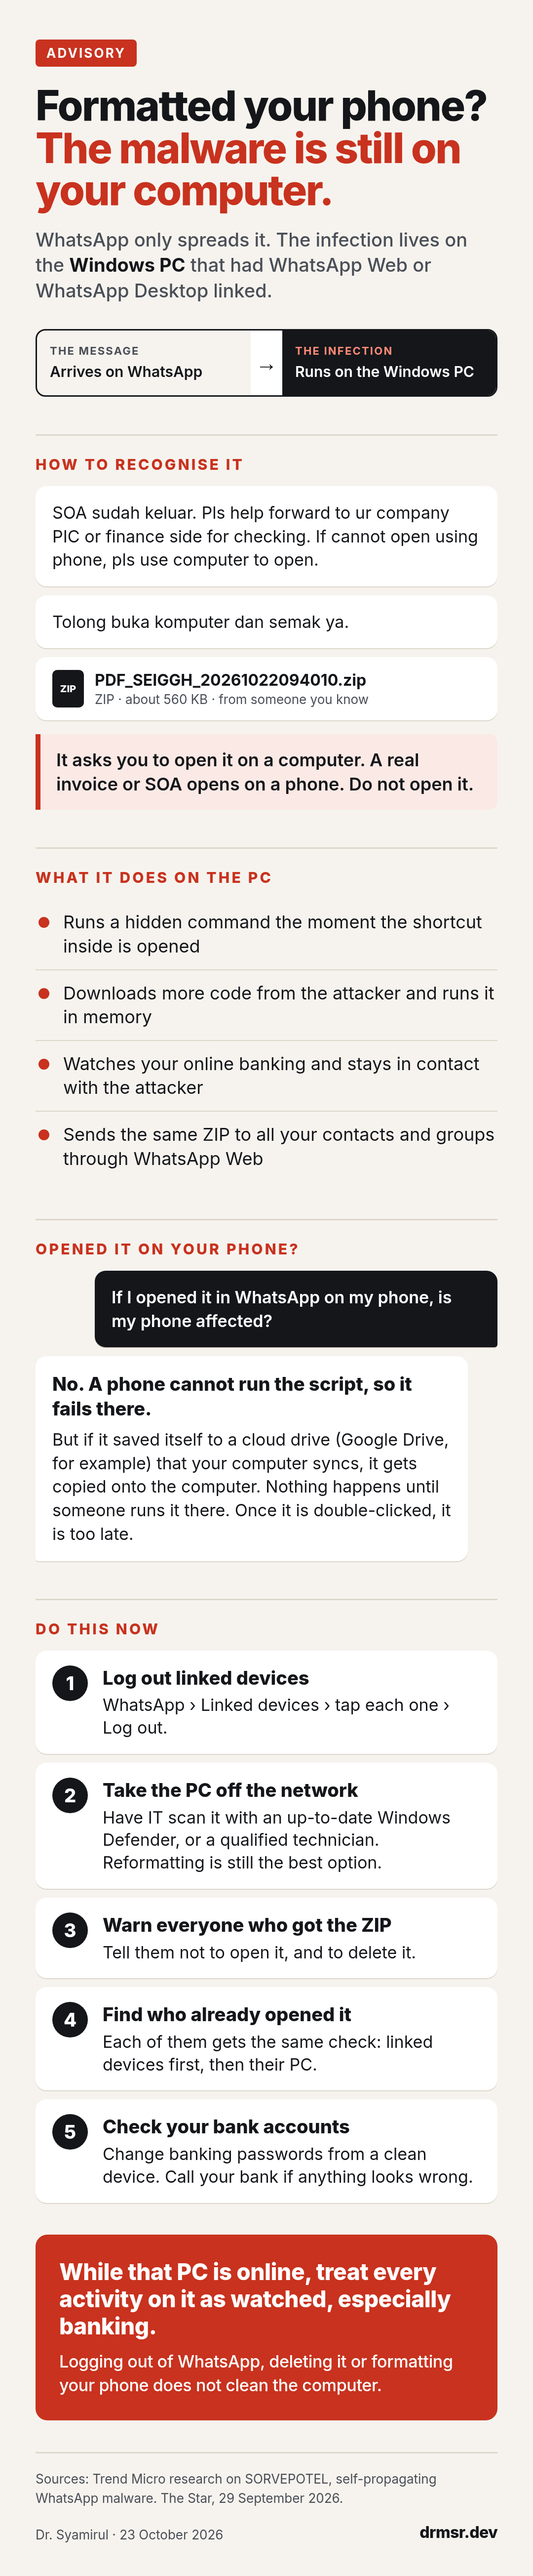
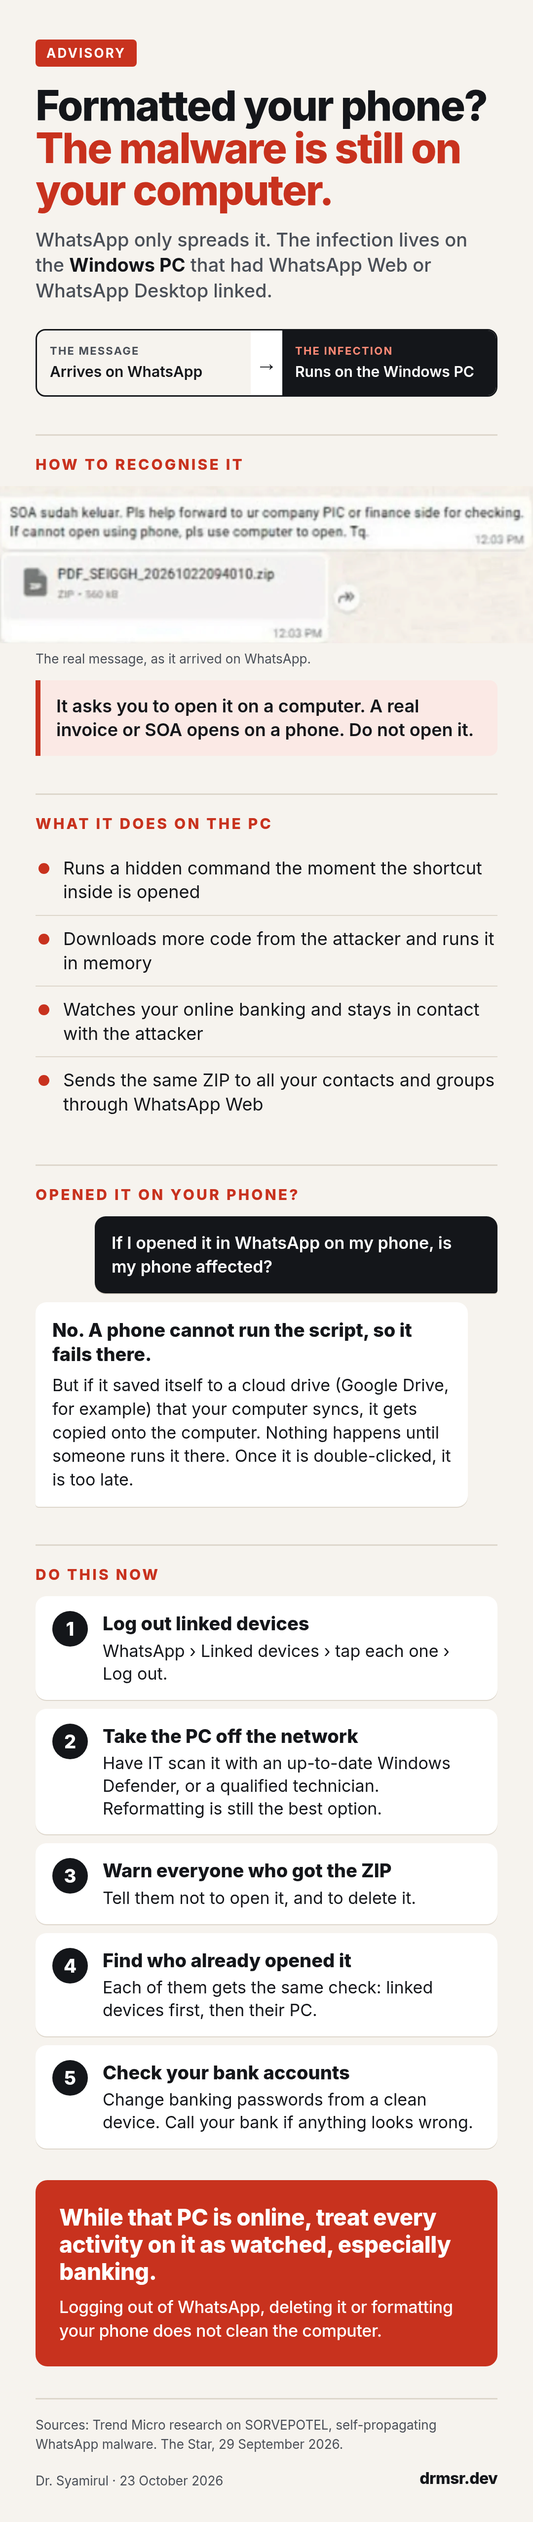
Advisory: real lure screenshot in recognise section and infographics
Claude-Session: https://claude.ai/code/session_01UKtv761YuUTM2Gfy5BTL3m

Changed region(s): [[0.0306, 0.0311, 0.9778, 0.9967], [0.6417, 0.0311, 0.9167, 0.0623]]

diff --git a/content/posts/whatsapp-zip-malware-advisory.md b/content/posts/whatsapp-zip-malware-advisory.md
@@ -11,7 +11,7 @@ thumbnail: null
 ---
 
 # WhatsApp ZIP malware: it lives on your computer, not your phone
-![Advisory infographic: WhatsApp ZIP malware lives on the Windows computer, with five steps to take now](https://drmsr.dev/images/advisory/whatsapp-zip-malware-en.png?v=2)
+![Advisory infographic: WhatsApp ZIP malware lives on the Windows computer, with five steps to take now](https://drmsr.dev/images/advisory/whatsapp-zip-malware-en.png?v=3)
 
 ## If you opened the ZIP, cleaning your phone does not fix it
 
@@ -19,13 +19,13 @@ Many people who received this file have logged out of WhatsApp, deleted the app 
 
 ## What the message looks like
 
-It comes from someone you know, or appears in a group you are in, so it looks safe. The wording is in Malay or English and sounds like normal office paperwork: a statement of account (SOA), a purchase order (PO), an invoice or a receipt. Real examples:
+It comes from someone you know, or appears in a group you are in, so it looks safe. The wording is in Malay or English and sounds like normal office paperwork: a statement of account (SOA), a purchase order (PO), an invoice or a receipt. This is a real one:
 
-> "SOA sudah keluar. Pls help forward to ur company PIC or finance side for checking. If cannot open using phone, pls use computer to open."
+![WhatsApp screenshot of the lure message with the ZIP file attached](https://drmsr.dev/images/advisory/whatsapp-zip-malware-lure.png?v=1)
 
-> "Please open file to check your document."
+*The real message: "SOA sudah keluar. Pls help forward to ur company PIC or finance side for checking. If cannot open using phone, pls use computer to open. Tq.", with the ZIP file attached.*
 
-> "Tolong buka komputer dan semak ya."
+Other versions say "Please open file to check your document" or "Tolong buka komputer dan semak ya."
 
 Attached is a ZIP file with a name like `PDF_SEIGGH_20261022094010.zip`: a few capital letters followed by a date and time, about 560 KB in size.
 
@@ -53,7 +53,7 @@ But if your phone saved it automatically to a cloud drive (Google Drive, for exa
 
 ## Bahasa Melayu
 
-![Infografik amaran: malware ZIP WhatsApp kekal di komputer Windows, dengan lima langkah yang perlu diambil](https://drmsr.dev/images/advisory/whatsapp-zip-malware-ms.png?v=2)
+![Infografik amaran: malware ZIP WhatsApp kekal di komputer Windows, dengan lima langkah yang perlu diambil](https://drmsr.dev/images/advisory/whatsapp-zip-malware-ms.png?v=3)
 
 ## Kalau anda sudah buka fail ZIP itu, bersihkan telefon sahaja tidak cukup
 
@@ -61,13 +61,13 @@ Ramai yang menerima fail ini terus log keluar WhatsApp, padam aplikasi, malah fo
 
 ## Rupa mesejnya
 
-Mesej ini datang daripada orang yang anda kenal, atau muncul dalam kumpulan yang anda sertai, jadi ia nampak selamat. Ayatnya dalam bahasa Melayu atau Inggeris dan berbunyi seperti urusan pejabat biasa: penyata akaun (SOA), pesanan belian (PO), invois atau resit. Contoh sebenar:
+Mesej ini datang daripada orang yang anda kenal, atau muncul dalam kumpulan yang anda sertai, jadi ia nampak selamat. Ayatnya dalam bahasa Melayu atau Inggeris dan berbunyi seperti urusan pejabat biasa: penyata akaun (SOA), pesanan belian (PO), invois atau resit. Ini contoh sebenar:
 
-> "SOA sudah keluar. Pls help forward to ur company PIC or finance side for checking. If cannot open using phone, pls use computer to open."
+![Tangkapan skrin WhatsApp mesej umpan bersama fail ZIP](https://drmsr.dev/images/advisory/whatsapp-zip-malware-lure.png?v=1)
 
-> "Please open file to check your document."
+*Mesej sebenar: "SOA sudah keluar. Pls help forward to ur company PIC or finance side for checking. If cannot open using phone, pls use computer to open. Tq.", bersama fail ZIP.*
 
-> "Tolong buka komputer dan semak ya."
+Versi lain berbunyi "Please open file to check your document" atau "Tolong buka komputer dan semak ya."
 
 Bersama mesej itu ada fail ZIP dengan nama seperti `PDF_SEIGGH_20261022094010.zip`: beberapa huruf besar diikuti tarikh dan masa, saiz sekitar 560 KB.
 
